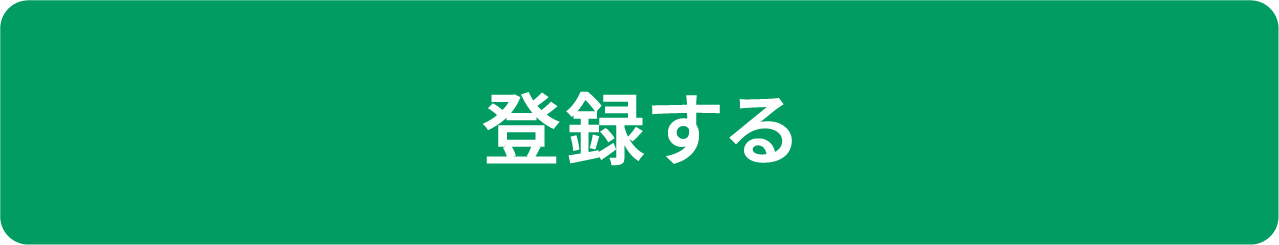
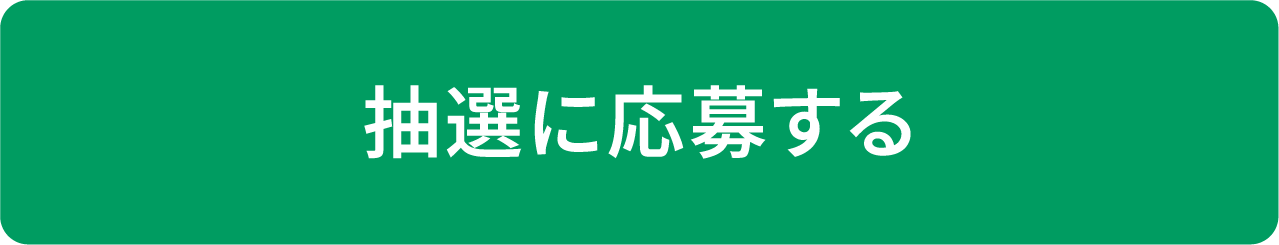
260202 清水 app4th 修正

Changed region(s): [[0.2744, 0.3429, 0.7318, 0.6857]]

diff --git a/app4th/quiz_atari.html b/app4th/quiz_atari.html
@@ -1,6 +1,6 @@
 <!-- @format -->
 
-<!DOCTYPE html>
+<!doctype html>
 <html lang="ja">
   <head>
     <meta charset="utf-8" />
@@ -51,10 +51,7 @@
     <!-- End Google Tag Manager -->
   </head>
 
-  <?php
-  date_default_timezone_set('Asia/Tokyo');
-  $cpToday = date("Ymd"); //今日の日付
-?>
+  <?php date_default_timezone_set('Asia/Tokyo'); $cpToday = date("Ymd"); //今日の日付 ?>
 
   <body class="">
     <!-- sectionにclass'entry'をつけたら、.entryBeforeが表示。ローンチ後は、.entry削除すると.entryAfterが表示 -->
@@ -75,6 +72,7 @@
     <div class="wrap bgR pt15 pb15">
       <section id="quiz" class="quizWrap2">
         <img src="img/second/view_quiz-atari.png" alt="正解" />
+        <p class="quizeatariNote">※当選ではありません。</p>
         <p class="quizDesc">
           プレゼントの発表は<br />
           当選者様への通知をもって<br />

diff --git a/app4th/css/202602-app4th.css b/app4th/css/202602-app4th.css
@@ -604,7 +604,13 @@ button {
   font-size: 50px;
   border: 4px solid #000;
 }
-
+.quizeatariNote {
+  margin: 5px 0 20px;
+  text-align: center;
+  font-size: 16px;
+  font-weight: 700;
+  color: #df0001;
+}
 .quizDesc {
   text-align: center;
   font-size: 22px;
